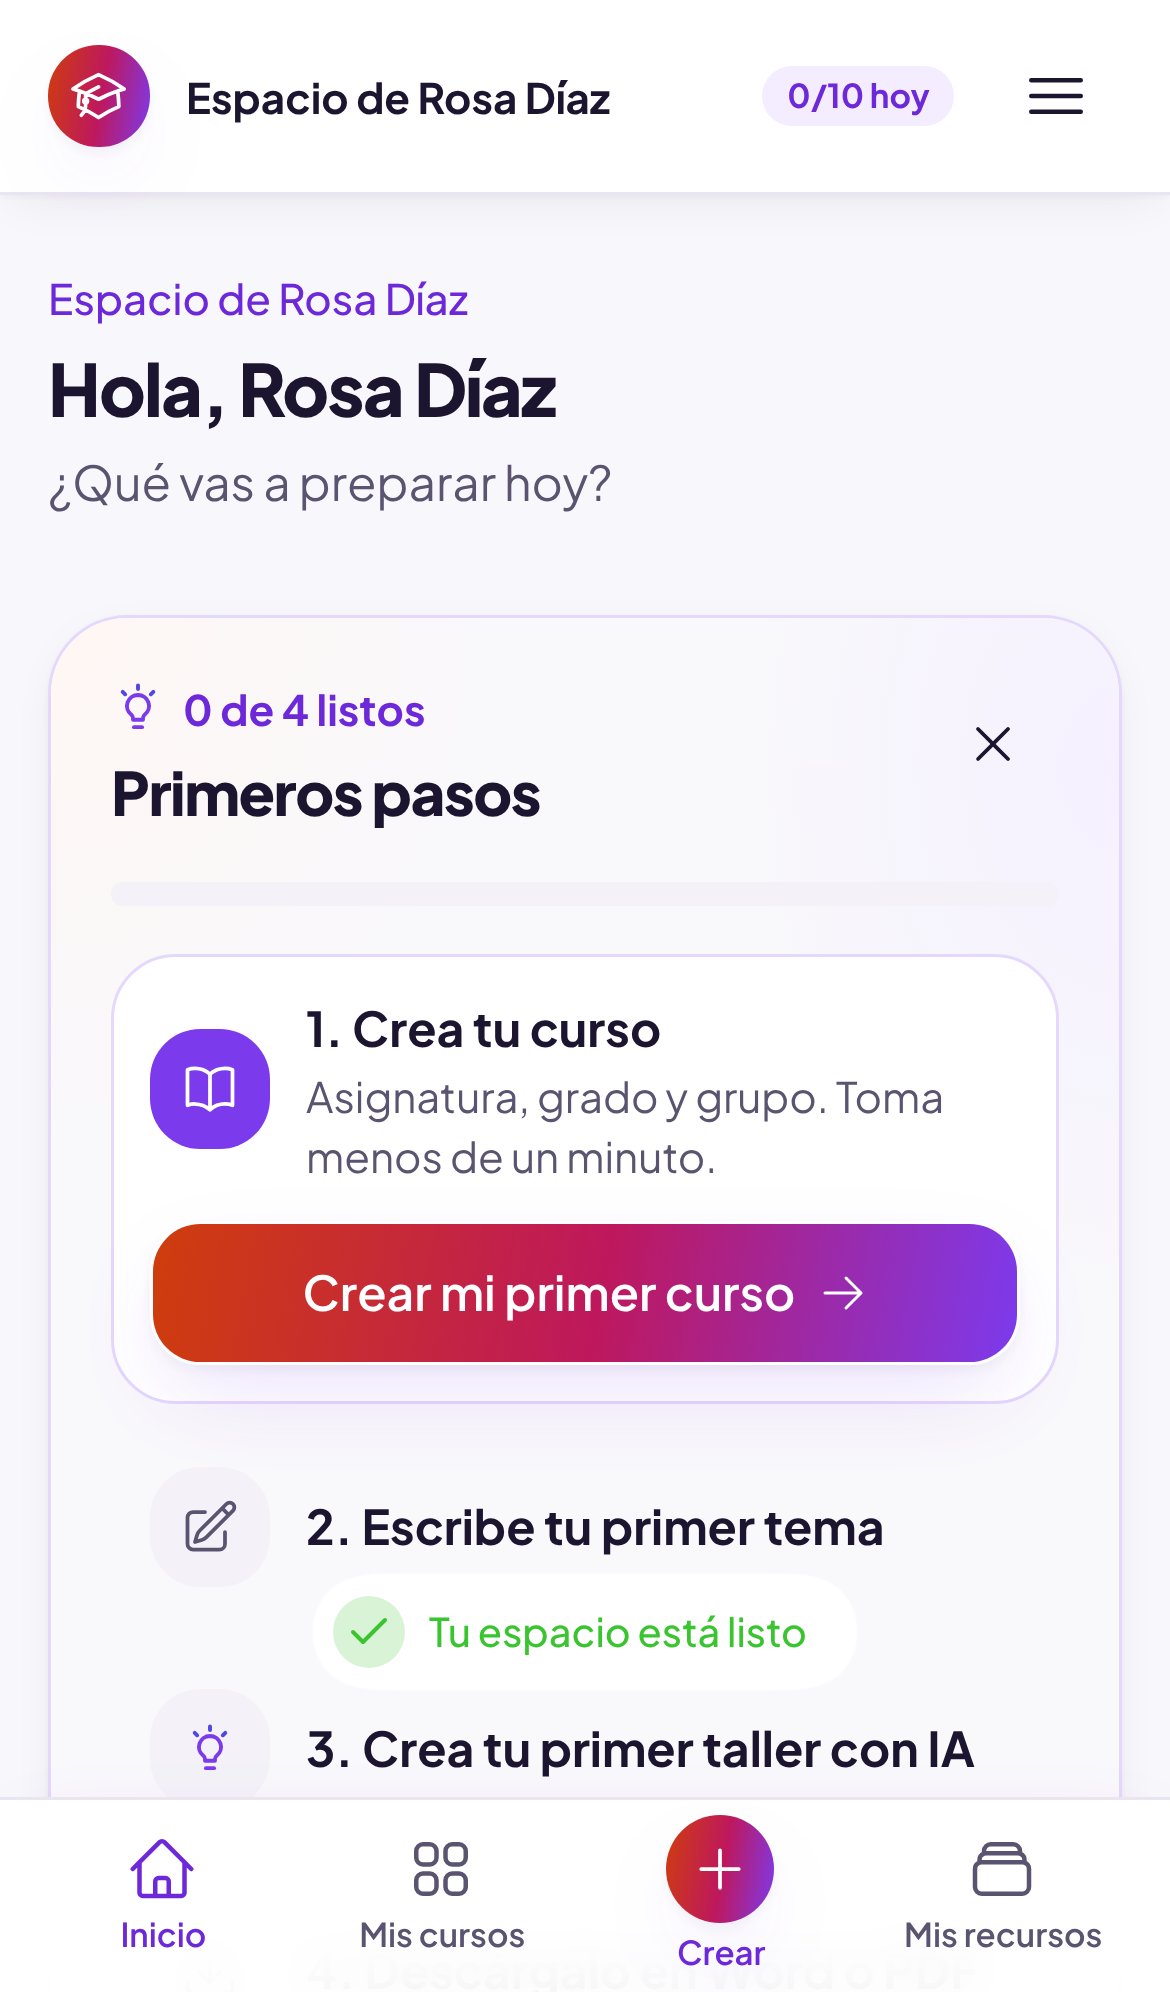
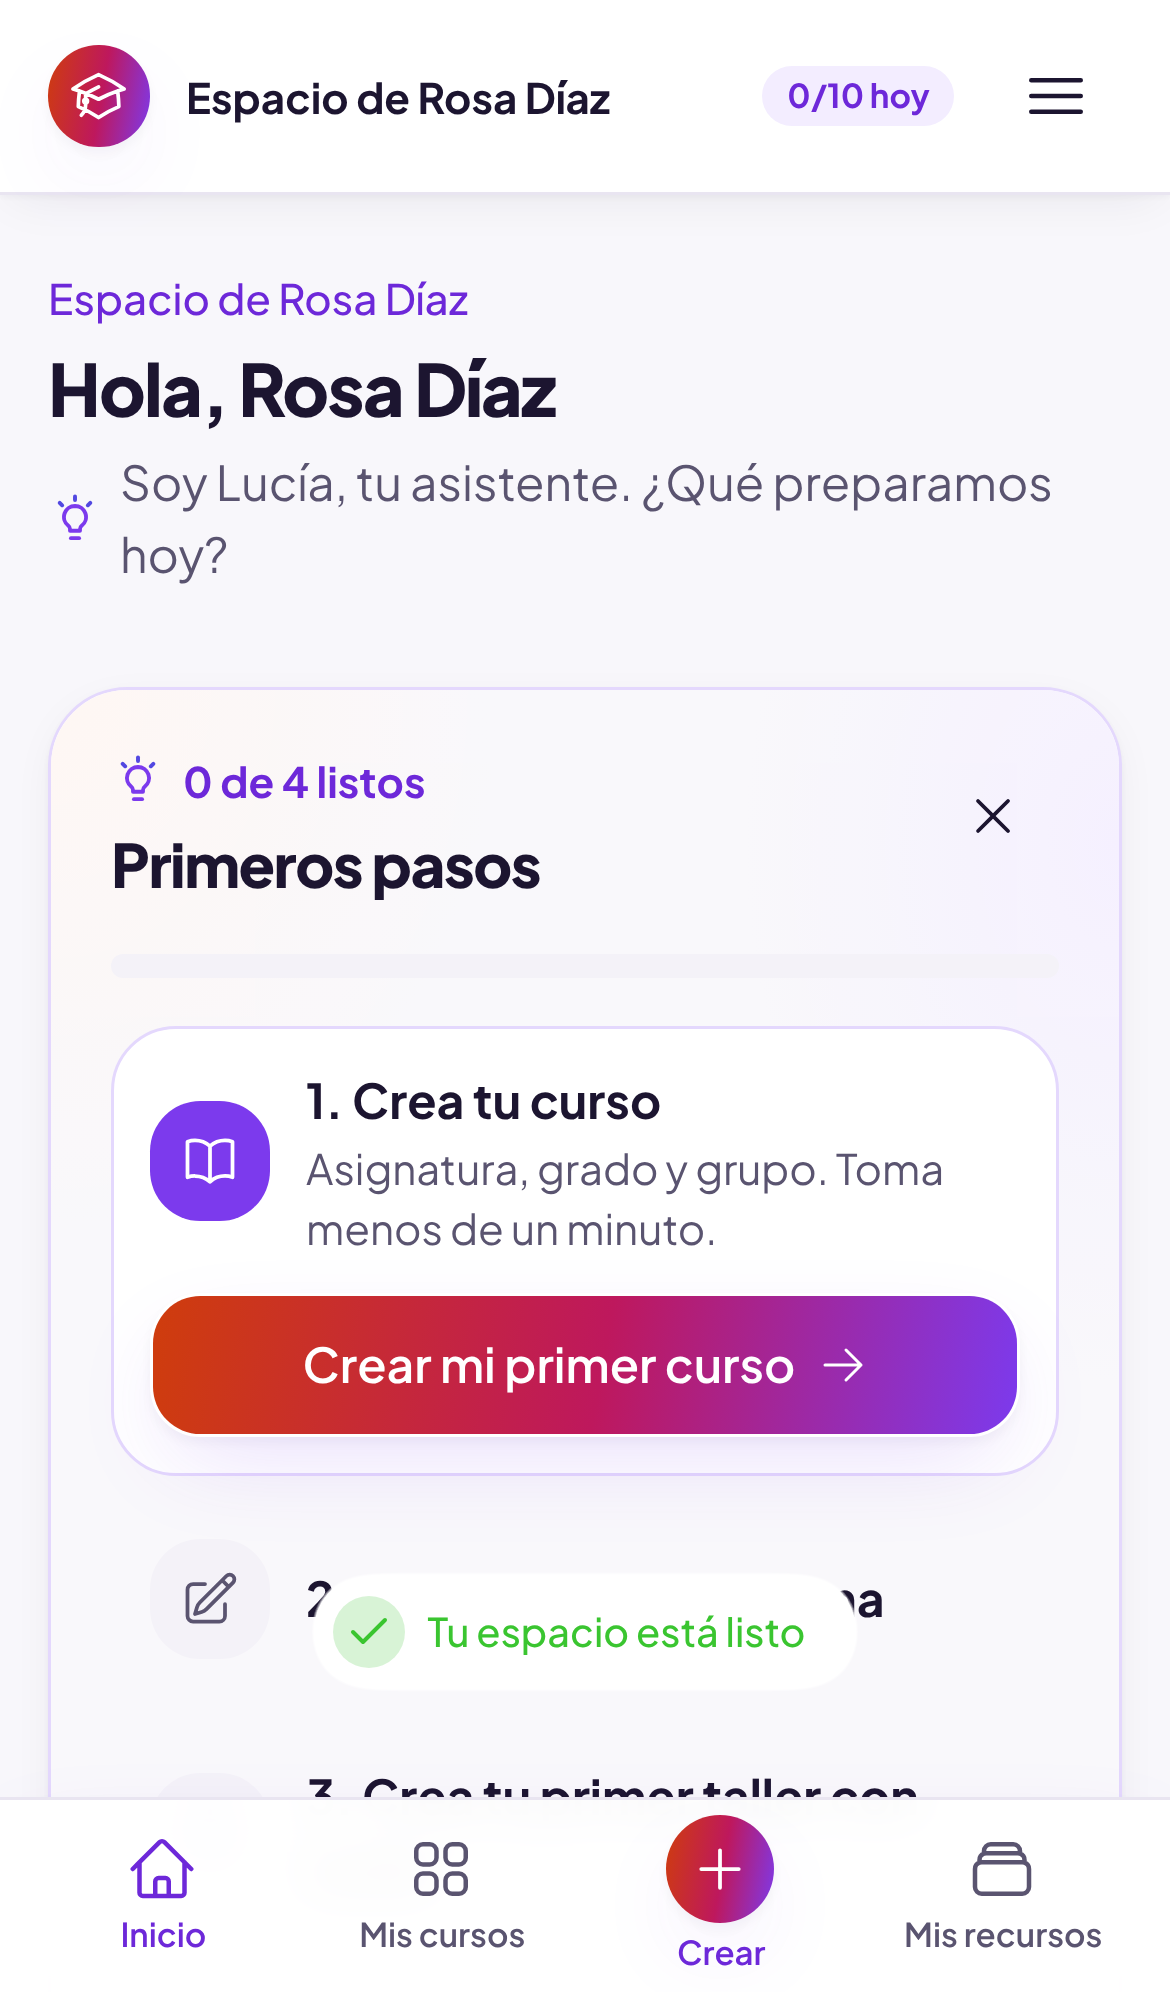
Inicio: Lucía se presenta, "Crea tu primer taller con Lucía" y "Pídele a Lucía"
Claude-Session: https://claude.ai/code/session_01TLUAYZfCHSMmitiEZC3hgK

diff --git a/apps/web/app/(app)/dashboard/teacher-home.tsx b/apps/web/app/(app)/dashboard/teacher-home.tsx
@@ -134,7 +134,10 @@ export function TeacherHomeView(props: Props) {
       <header className="flex flex-col gap-1">
         <p className="text-sm font-medium text-brand-strong">{props.spaceName}</p>
         <h1 className="text-2xl font-extrabold sm:text-3xl">Hola, {props.userName}</h1>
-        <p className="text-muted-foreground">¿Qué vas a preparar hoy?</p>
+        <p className="flex items-start gap-1.5 text-muted-foreground">
+          <AiAvatar size={18} className="mt-0.5 shrink-0" />
+          Soy Lucía, tu asistente. ¿Qué preparamos hoy?
+        </p>
       </header>
 
       {/* Bloque 4 de usabilidad: lo que sigue en cada curso, listo para crear con un toque. */}
@@ -231,7 +234,7 @@ export function TeacherHomeView(props: Props) {
           className="flex flex-col gap-3 rounded-3xl border border-border bg-card p-6 shadow-soft"
         >
           <h2 id="quick-title" className="text-base font-bold">
-            Crear rápido
+            Pídele a Lucía
           </h2>
           <ul className="flex flex-col gap-2">
             {QUICK.map(({ label, description, href, icon: Icon }) => (

diff --git a/apps/web/app/(app)/dashboard/first-steps.tsx b/apps/web/app/(app)/dashboard/first-steps.tsx
@@ -59,7 +59,7 @@ function stepView(key: FirstStepKey, steps: FirstSteps): StepView {
       };
     case "RESOURCE":
       return {
-        title: "Crea tu primer taller con IA",
+        title: "Crea tu primer taller con Lucía",
         text: steps.topicTitle
           ? `Para «${steps.topicTitle}». La IA lo prepara y tú lo revisas.`
           : "La IA lo prepara y tú lo revisas.",

diff --git a/docs/ESTADO.md b/docs/ESTADO.md
@@ -32,6 +32,9 @@ Bitácora para retomar el trabajo después de borrar la conversación. **Se actu
     objetivos, sugerencias, DBA marcados, ajustes, formatos, "Lucía aprendió algo de ti", tutorial y PIAR.
     La plataforma sigue siendo ProfIA. Regla en `docs/design/sistema-de-diseno.md` → Marca.
   - Pruebas e2e y el recorrido de usabilidad actualizados a los textos nuevos.
+  - Inicio (aprobado): bajo el saludo "Soy Lucía, tu asistente. ¿Qué preparamos hoy?" con el foco;
+    paso 3 "Crea tu primer taller con Lucía"; columna derecha "Pídele a Lucía". El cupo del menú se
+    queda como estaba (decisión del usuario). Capturas en `design/capturas/lucia/`.
 
 - **Nuevo nombre: ProfIA** (2026-11-21), decisión del usuario. Se cambió "Profe" por "ProfIA" en toda la
   interfaz, la página pública, los correos, la app instalable (manifiesto y título), los pies de los Word
